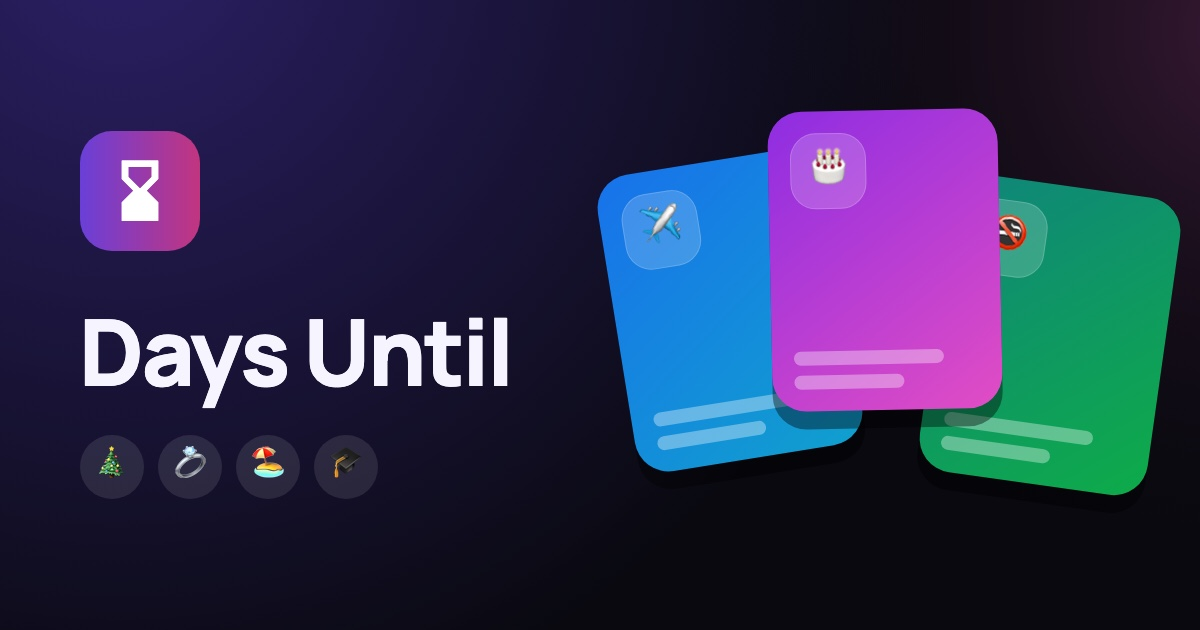
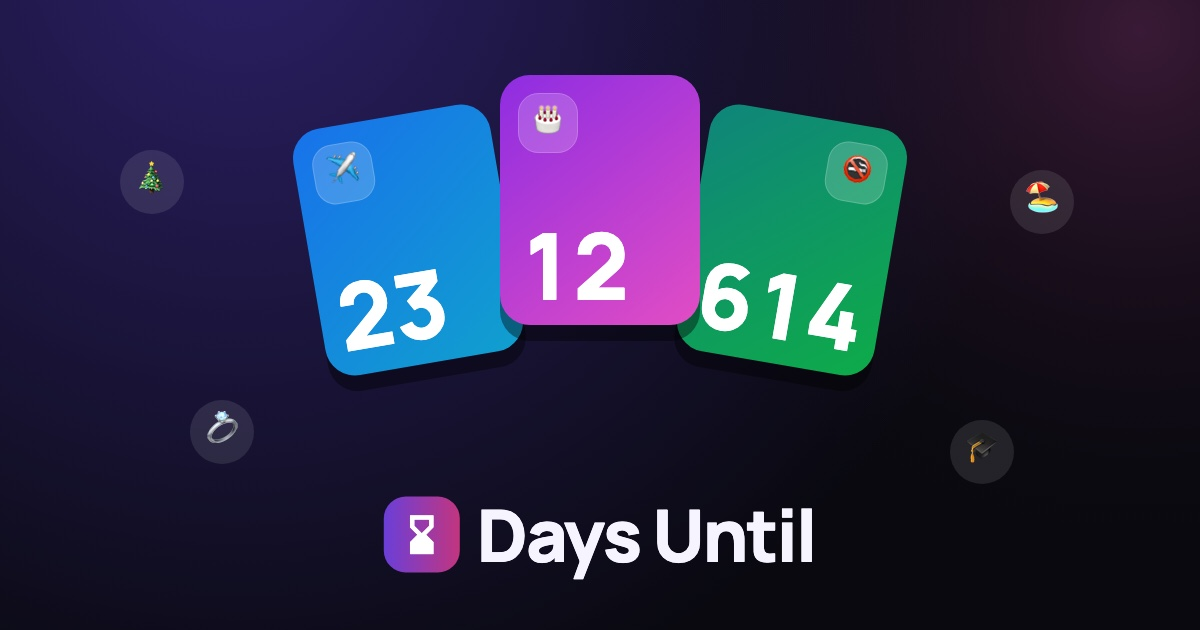
Together page: og image with numbers inside the centre square; count-up headings match the app

diff --git a/days-until/together/index.html b/days-until/together/index.html
@@ -28,7 +28,7 @@
 <meta property="og:image:type" content="image/jpeg">
 <meta property="og:image:width" content="1200">
 <meta property="og:image:height" content="630">
-<meta property="og:image:alt" content="Days Until: countdown cards with emoji">
+<meta property="og:image:alt" content="Days Until: three countdown cards with emoji and day numbers">
 <meta name="twitter:card" content="summary_large_image">
 <style>
   :root { color-scheme: dark; --bg: #09090f; --text: #f6f4ff; --muted: #a9a6c0; --a: #6a3fd8; --b: #c2357f; }
@@ -129,8 +129,9 @@
   }
   if (ev.u) {
     // A count-up ("days since") is counted together, not waited for.
-    var U = { en: 'Count together', uk: 'Рахуємо разом', de: 'Gemeinsam zählen', es: 'Contar juntos', pt: 'Contar juntos',
-      fr: 'Compter ensemble', it: 'Contiamo insieme' };
+    // The same words as the app's menu item for a count-up.
+    var U = { en: 'Count together', uk: 'Рахуємо разом', de: 'Gemeinsam Tage zählen', es: 'Contar días juntos',
+      pt: 'Contar os dias juntos', fr: 'Compter les jours ensemble', it: 'Contiamo i giorni insieme' };
     $('h').textContent = U[lang] || U.en;
   }
   var colors = THEMES[ev.h] || THEMES.ocean;
